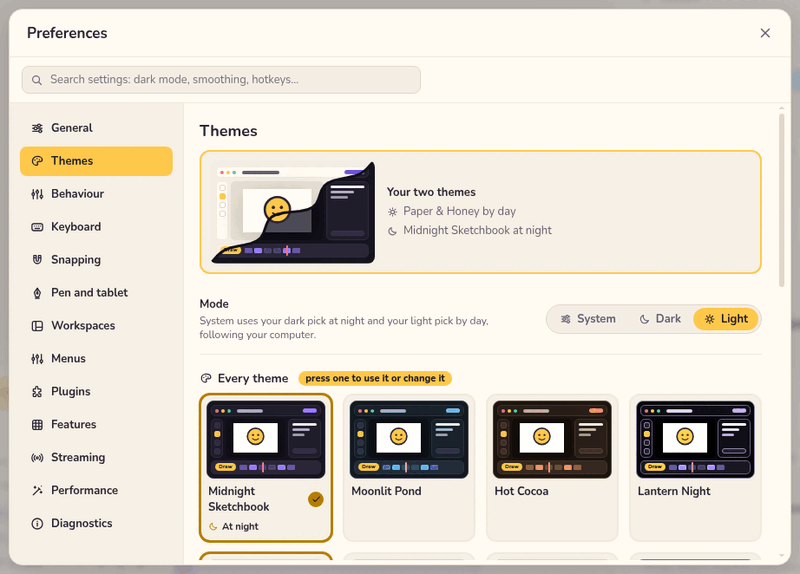
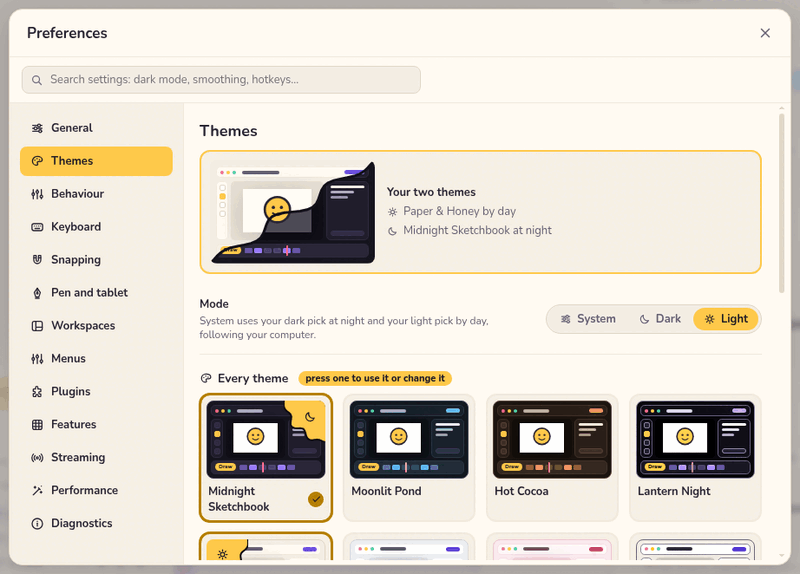
Themes help: the picture and the words follow the splotches, sun on the left for day and moon on the right for night

diff --git a/src/ui/helpTopics.bodies.ts b/src/ui/helpTopics.bodies.ts
@@ -428,7 +428,7 @@ Open **Preferences** (**Ctrl+,**), then **Themes**. Every theme sits in one grid
 
 The same menu has **Edit this theme** (your own themes) and **Make a copy to change** (any theme).
 
-The change is instant. Your two get a gold edge, a tick and a line under the name: a sun for by day, a moon for at night, both for day and night. Any theme can be either one, however bright or dark it is: a dark theme by day is allowed if that is what you like.
+The change is instant. Your two get a gold edge, a tick and a yellow splotch in the top corner: the sun on the left for day, the moon on the right for night. Any theme can be either one, however bright or dark it is: a dark theme by day is allowed if that is what you like.
 
 ## Dark, light and System
 
